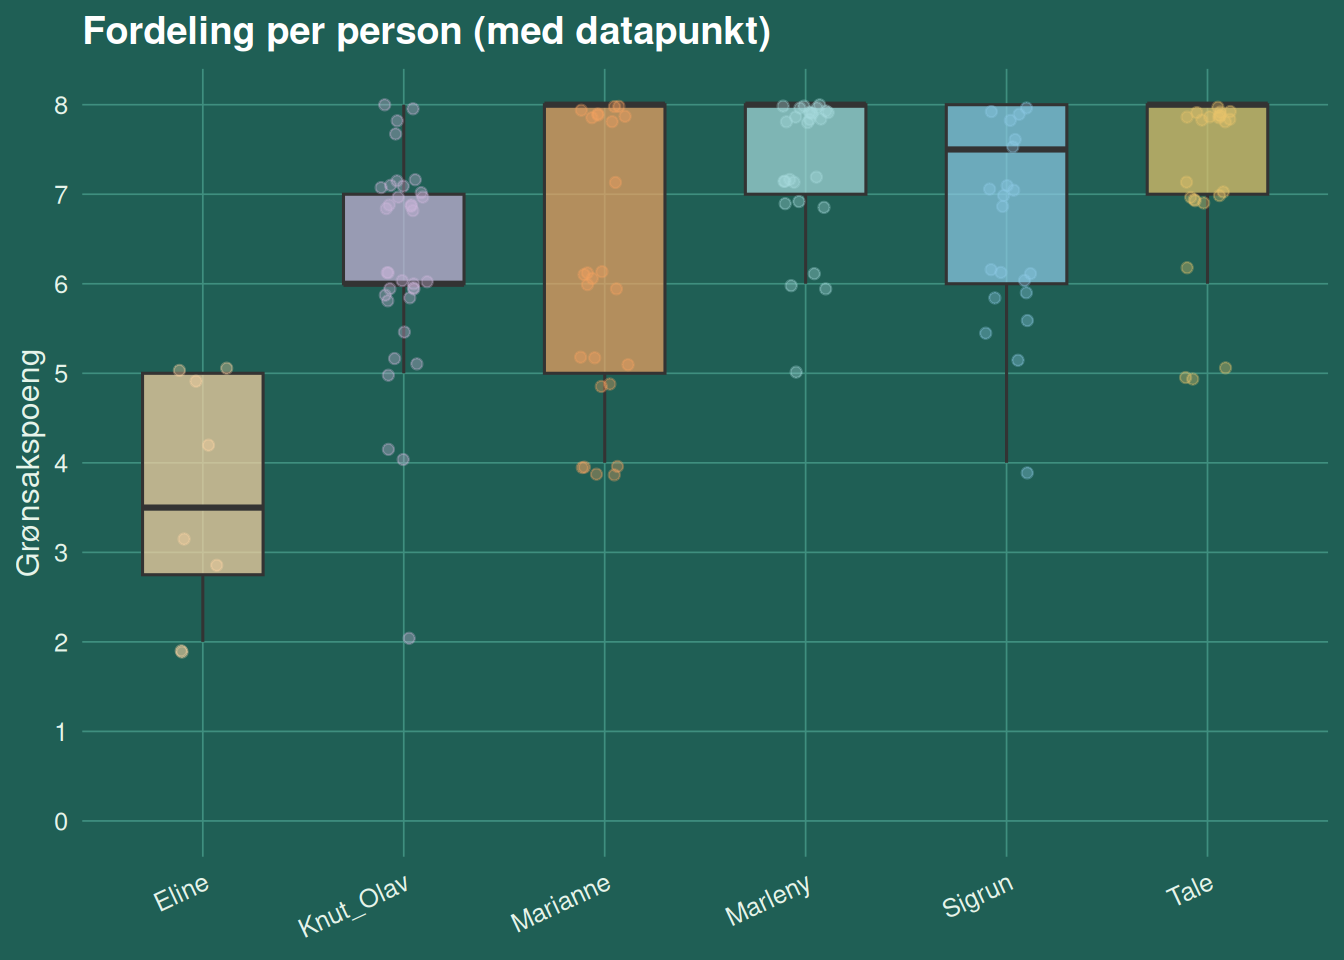
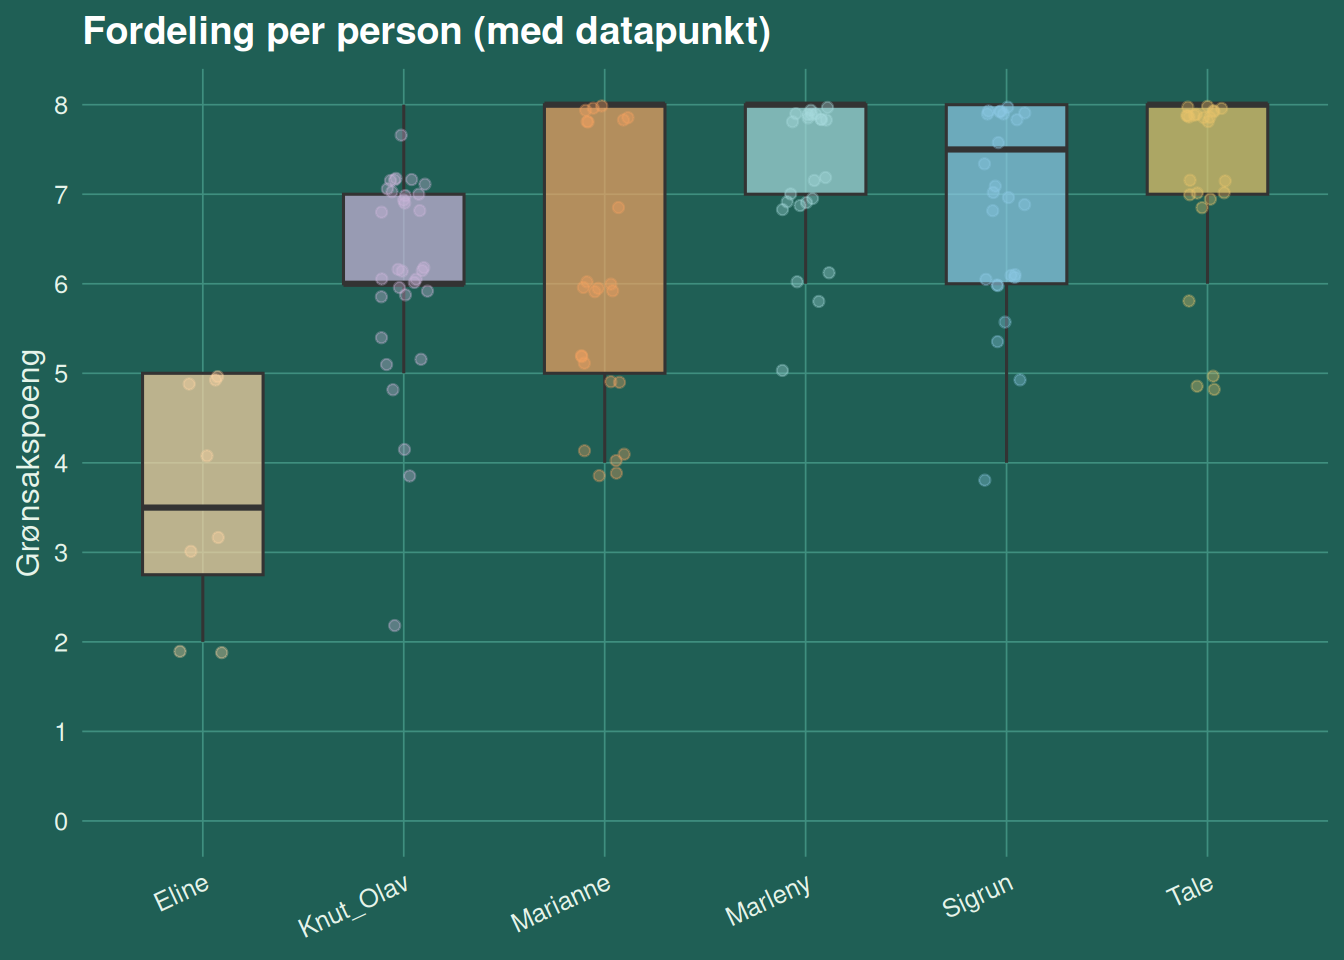
Auto-update dashboard

diff --git a/docs/index.html b/docs/index.html
@@ -394,8 +394,8 @@ ul.task-list li input[type="checkbox"] {
 <div class="card">
 <div class="cell">
 <div class="cell-output-display">
-<div class="datatables html-widget html-fill-item" id="htmlwidget-935a9b7785c0e42e2b79" style="width:100%;height:auto;"></div>
-<script type="application/json" data-for="htmlwidget-935a9b7785c0e42e2b79">{"x":{"filter":"none","vertical":false,"data":[[2,2,2,2,2,2,2,3,3,3,3,3,3,3,4,4,4,4,4,4,4,5,5,5,5,5,5,5,6,6,6,6,6,6,6,null,null,null,null,null],["2026-01-05","2026-01-06","2026-01-07","2026-01-08","2026-01-09","2026-01-10","2026-01-11","2026-01-12","2026-01-13","2026-01-14","2026-01-15","2026-01-16","2026-01-17","2026-01-18","2026-01-19","2026-01-20","2026-01-21","2026-01-22","2026-01-23","2026-01-24","2026-01-25","2026-01-26","2026-01-27","2026-01-28","2026-01-29","2026-01-30","2026-01-31","2026-02-01","2026-02-02","2026-02-03","2026-02-04","2026-02-05","2026-02-06","2026-02-07","2026-02-08",null,null,null,null,null],["Mandag","Tirsdag","Onsdag","Torsdag","Fredag","Lørdag","Søndag","Mandag","Tirsdag","Onsdag","Torsdag","Fredag","Lørdag","Søndag","Mandag","Tirsdag","Onsdag","Torsdag","Fredag","Lørdag","Søndag","Mandag","Tirsdag","Onsdag","Torsdag","Fredag","Lørdag","Søndag","Mandag","Tirsdag","Onsdag","Torsdag","Fredag","Lørdag","Søndag",null,null,null,null,null],["6","7","5.5","4","5.5","7.5","7","7.5","8","6","8","8","8","6","8","6","7","7","9","8","8","6","10","8","5","7","6","9","8","8","8","8","8","8","8",null,null,null,null,null],["6","7","6","4","5.5","7","7","6","7","6","7","7.5","8","6","7","6","5","8","7","6","7","6","7","7","2","7","4","6","7","6","6","8","7","5","5",null,null,null,null,null],["5","8","7","8","7","8","8","7","8","7","8","8","8","8","8","7","7","8","8","7","8","8","8","8","8","8","6","8","8","8","8","8","8","5","5",null,null,null,null,null],["8","7","8","8","8","8","7","8","8","8","8","7","7","8","8","8","6","7","8","8","8","8","8","8","8","7","7","6","5","6","8","8","8","8","7",null,null,null,null,null],["5","6","8","8","8","5","4","8","8","8","8","8","8","6","5","6","4","6","8","6","6","8","8","8","4","8","5","5","7","8","8","8","8","4","4",null,null,null,null,null],["5","5","4","2","3","3","2","5",null,null,null,null,null,null,null,null,null,null,null,null,null,null,null,null,null,null,null,null,null,null,null,null,null,null,null,null,null,null,null,null]],"container":"<table class=\"display\">\n  <thead>\n    <tr>\n      <th>Veke<\/th>\n      <th>Dato<\/th>\n      <th>Dag<\/th>\n      <th>Sigrun<\/th>\n      <th>Knut_Olav<\/th>\n      <th>Tale<\/th>\n      <th>Marleny<\/th>\n      <th>Marianne<\/th>\n      <th>Eline<\/th>\n    <\/tr>\n  <\/thead>\n<\/table>","options":{"pageLength":7,"scrollX":true,"columnDefs":[{"className":"dt-right","targets":0},{"name":"Veke","targets":0},{"name":"Dato","targets":1},{"name":"Dag","targets":2},{"name":"Sigrun","targets":3},{"name":"Knut_Olav","targets":4},{"name":"Tale","targets":5},{"name":"Marleny","targets":6},{"name":"Marianne","targets":7},{"name":"Eline","targets":8}],"order":[],"autoWidth":false,"orderClasses":false,"lengthMenu":[7,10,25,50,100]}},"evals":[],"jsHooks":[]}</script>
+<div class="datatables html-widget html-fill-item" id="htmlwidget-86bd2f917509a2fea631" style="width:100%;height:auto;"></div>
+<script type="application/json" data-for="htmlwidget-86bd2f917509a2fea631">{"x":{"filter":"none","vertical":false,"data":[[2,2,2,2,2,2,2,3,3,3,3,3,3,3,4,4,4,4,4,4,4,5,5,5,5,5,5,5,6,6,6,6,6,6,6,null,null,null,null,null],["2026-01-05","2026-01-06","2026-01-07","2026-01-08","2026-01-09","2026-01-10","2026-01-11","2026-01-12","2026-01-13","2026-01-14","2026-01-15","2026-01-16","2026-01-17","2026-01-18","2026-01-19","2026-01-20","2026-01-21","2026-01-22","2026-01-23","2026-01-24","2026-01-25","2026-01-26","2026-01-27","2026-01-28","2026-01-29","2026-01-30","2026-01-31","2026-02-01","2026-02-02","2026-02-03","2026-02-04","2026-02-05","2026-02-06","2026-02-07","2026-02-08",null,null,null,null,null],["Mandag","Tirsdag","Onsdag","Torsdag","Fredag","Lørdag","Søndag","Mandag","Tirsdag","Onsdag","Torsdag","Fredag","Lørdag","Søndag","Mandag","Tirsdag","Onsdag","Torsdag","Fredag","Lørdag","Søndag","Mandag","Tirsdag","Onsdag","Torsdag","Fredag","Lørdag","Søndag","Mandag","Tirsdag","Onsdag","Torsdag","Fredag","Lørdag","Søndag",null,null,null,null,null],["6","7","5.5","4","5.5","7.5","7","7.5","8","6","8","8","8","6","8","6","7","7","9","8","8","6","10","8","5","7","6","9","8","8","8","8","8","8","8",null,null,null,null,null],["6","7","6","4","5.5","7","7","6","7","6","7","7.5","8","6","7","6","5","8","7","6","7","6","7","7","2","7","4","6","7","6","6","8","7","5","5",null,null,null,null,null],["5","8","7","8","7","8","8","7","8","7","8","8","8","8","8","7","7","8","8","7","8","8","8","8","8","8","6","8","8","8","8","8","8","5","5",null,null,null,null,null],["8","7","8","8","8","8","7","8","8","8","8","7","7","8","8","8","6","7","8","8","8","8","8","8","8","7","7","6","5","6","8","8","8","8","7",null,null,null,null,null],["5","6","8","8","8","5","4","8","8","8","8","8","8","6","5","6","4","6","8","6","6","8","8","8","4","8","5","5","7","8","8","8","8","4","4",null,null,null,null,null],["5","5","4","2","3","3","2","5",null,null,null,null,null,null,null,null,null,null,null,null,null,null,null,null,null,null,null,null,null,null,null,null,null,null,null,null,null,null,null,null]],"container":"<table class=\"display\">\n  <thead>\n    <tr>\n      <th>Veke<\/th>\n      <th>Dato<\/th>\n      <th>Dag<\/th>\n      <th>Sigrun<\/th>\n      <th>Knut_Olav<\/th>\n      <th>Tale<\/th>\n      <th>Marleny<\/th>\n      <th>Marianne<\/th>\n      <th>Eline<\/th>\n    <\/tr>\n  <\/thead>\n<\/table>","options":{"pageLength":7,"scrollX":true,"columnDefs":[{"className":"dt-right","targets":0},{"name":"Veke","targets":0},{"name":"Dato","targets":1},{"name":"Dag","targets":2},{"name":"Sigrun","targets":3},{"name":"Knut_Olav","targets":4},{"name":"Tale","targets":5},{"name":"Marleny","targets":6},{"name":"Marianne","targets":7},{"name":"Eline","targets":8}],"order":[],"autoWidth":false,"orderClasses":false,"lengthMenu":[7,10,25,50,100]}},"evals":[],"jsHooks":[]}</script>
 </div>
 </div>
 </div>
